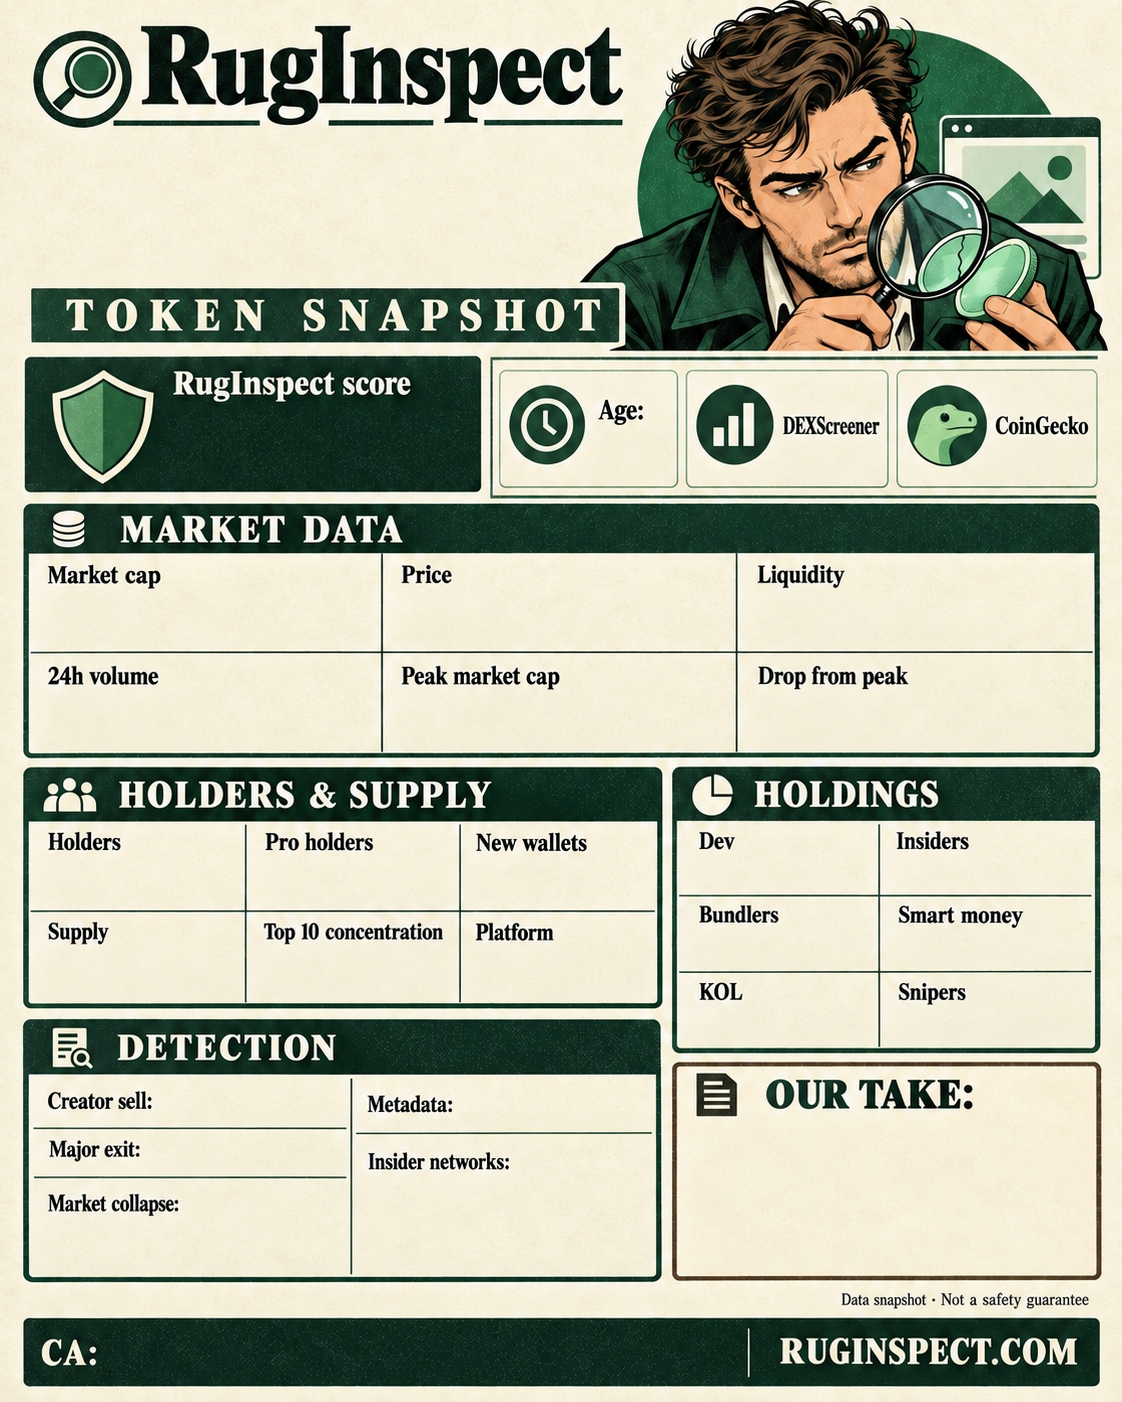
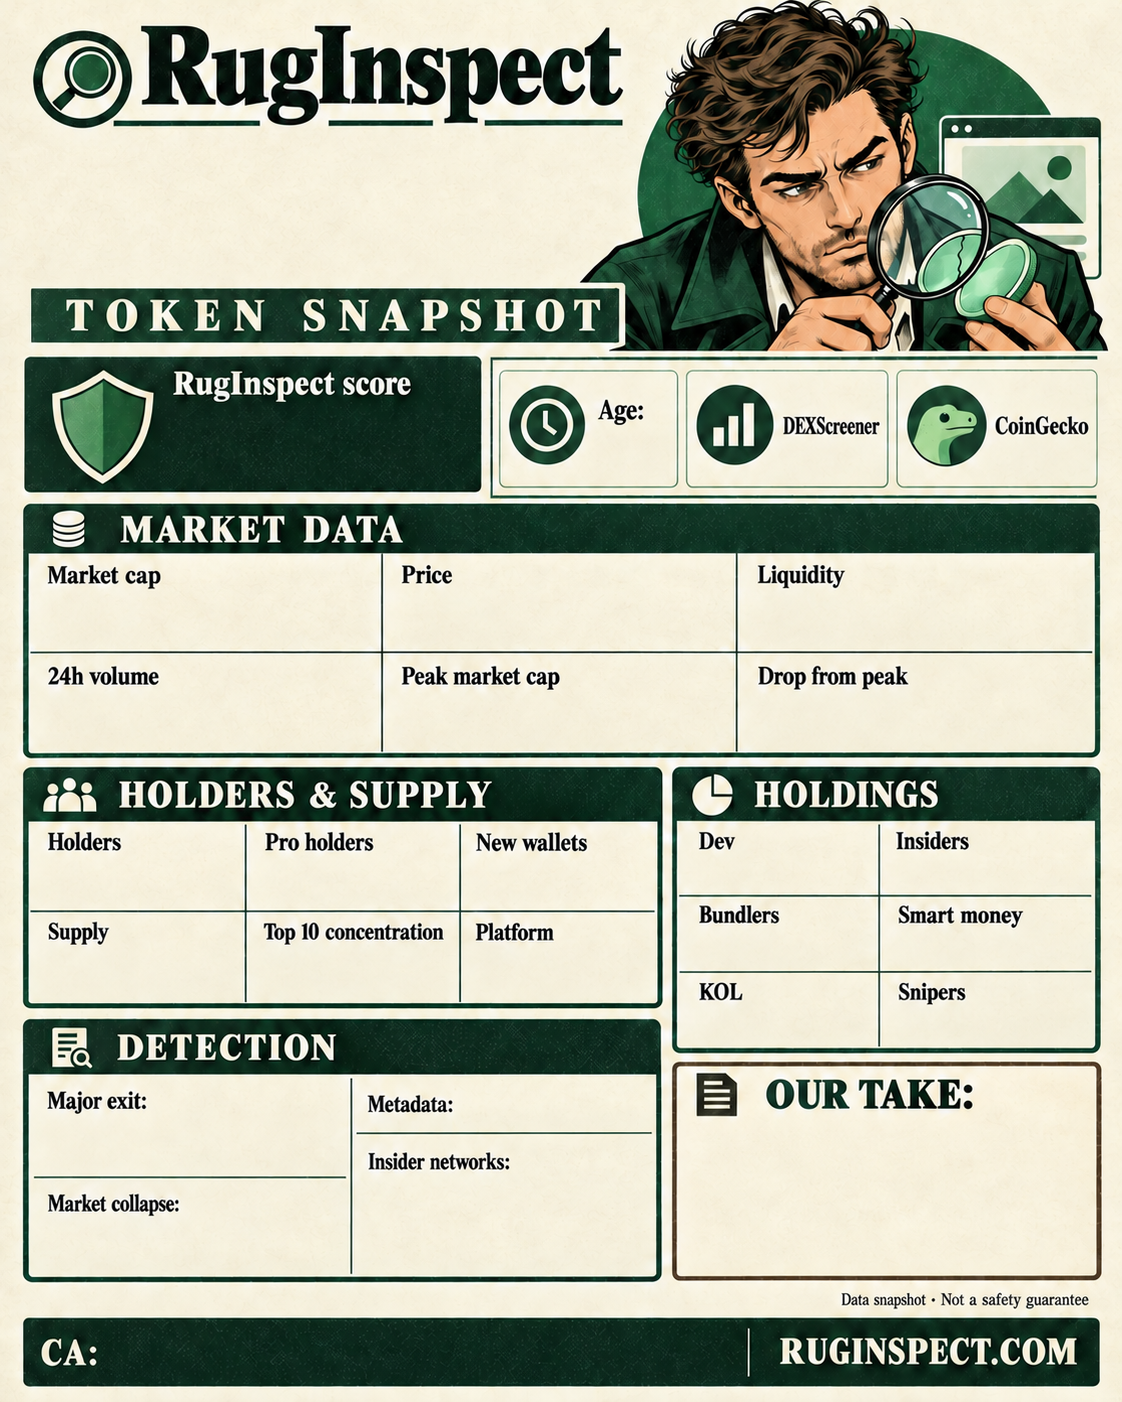
Add files via upload

diff --git a/admin-ai-template.js b/admin-ai-template.js
@@ -305,7 +305,39 @@
   const pct = v =>
     available(v) ? v.toFixed(2) + '%' : 'Unavailable';
 
-  function draw(s, take) {
+  function loadTokenLogo(url) {
+    if (!url) return Promise.resolve(null);
+
+    return new Promise(resolve => {
+      const logo = new Image();
+      let finished = false;
+      let timer;
+
+      function finish(result) {
+        if (finished) return;
+
+        finished = true;
+        clearTimeout(timer);
+        logo.onload = null;
+        logo.onerror = null;
+        resolve(result);
+      }
+
+      logo.crossOrigin = 'anonymous';
+      logo.referrerPolicy = 'no-referrer';
+
+      logo.onload = () => finish(logo);
+      logo.onerror = () => finish(null);
+
+      timer = setTimeout(() => finish(null), 5000);
+
+      logo.src = url;
+    });
+  }
+
+  async function draw(s, take) {
+    const tokenLogo = await loadTokenLogo(s.imageUrl);
+
     return new Promise((resolve, reject) => {
       const image = new Image();
 
@@ -355,8 +387,60 @@
 
           text(
             s.symbol ? '$' + s.symbol : 'Solana',
-            36, 224, 545, 36
+            36, 224, tokenLogo ? 440 : 545, 36
           );
+
+          if (tokenLogo) {
+            const x = 500;
+            const y = 207;
+            const size = 68;
+
+            ctx.save();
+
+            ctx.beginPath();
+            ctx.arc(
+              x + size / 2,
+              y + size / 2,
+              size / 2,
+              0,
+              Math.PI * 2
+            );
+            ctx.clip();
+
+            ctx.fillStyle = '#f3eed7';
+            ctx.fillRect(x, y, size, size);
+
+            const scale = Math.max(
+              size / tokenLogo.naturalWidth,
+              size / tokenLogo.naturalHeight
+            );
+
+            const width = tokenLogo.naturalWidth * scale;
+            const height = tokenLogo.naturalHeight * scale;
+
+            ctx.drawImage(
+              tokenLogo,
+              x + (size - width) / 2,
+              y + (size - height) / 2,
+              width,
+              height
+            );
+
+            ctx.restore();
+
+            ctx.beginPath();
+            ctx.arc(
+              x + size / 2,
+              y + size / 2,
+              size / 2,
+              0,
+              Math.PI * 2
+            );
+
+            ctx.strokeStyle = '#164b36';
+            ctx.lineWidth = 3;
+            ctx.stroke();
+          }
 
           text(
             available(s.score)
@@ -366,10 +450,8 @@
           );
 
           text(
-            available(s.ageDays)
-              ? `${s.ageDays} days`
-              : 'Unavailable',
-            505, 463, 163, 20, '#09281e', true
+            s.ageLabel || 'Unavailable',
+            505, 457, 163, 20, '#09281e', true
           );
 
           text(
@@ -455,8 +537,7 @@
             );
           });
 
-          text(s.creatorSell, 209, 1100, 126, 19);
-          text(s.majorExit, 190, 1149, 145, 19);
+          text(s.majorExit, 190, 1100, 145, 19);
           text(s.marketCollapse, 48, 1236, 280, 22);
           text(s.metadata, 503, 1099, 134, 18);
 
